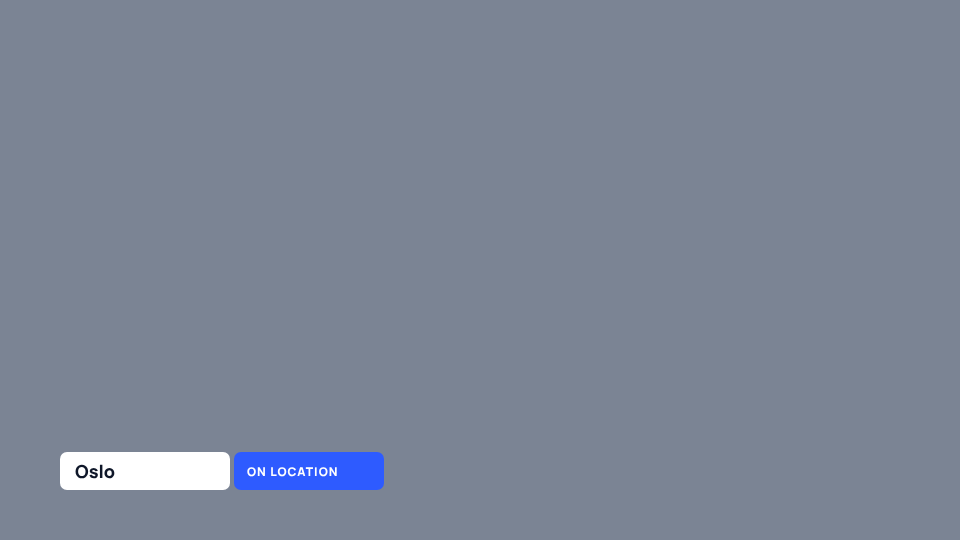
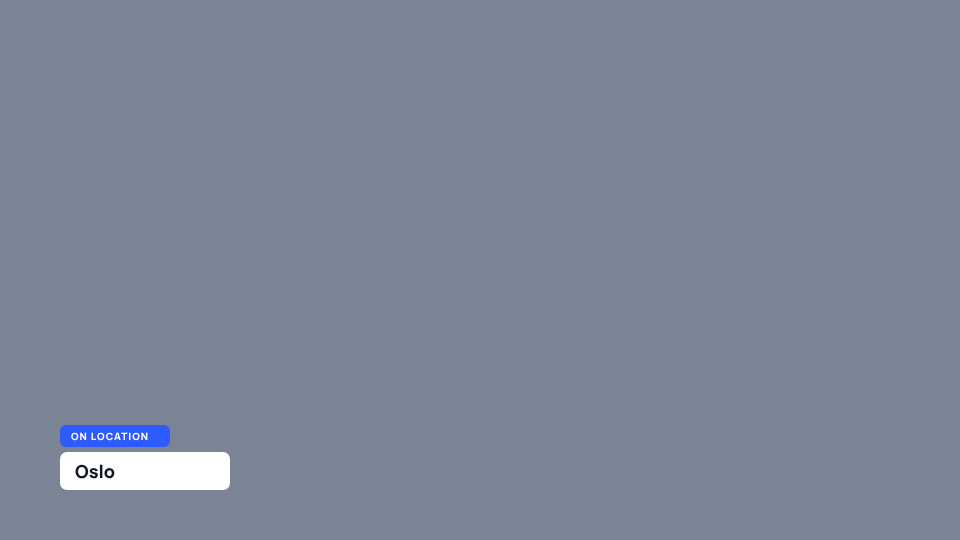
TL4: coverage rows for the new templates, the export proof, sweep fixes
The Location chip's status tag sits above its plate so the plate can grow; the
retyped value is read line by line; Reset is checked against the drawn track.

Changed region(s): [[0.2188, 0.8296, 0.4062, 0.9185], [0.0625, 0.7704, 0.1875, 0.8296]]

diff --git a/e2e/svg-templates.spec.ts b/e2e/svg-templates.spec.ts
@@ -23,6 +23,7 @@ import { fileURLToPath } from 'node:url';
 import { dropSvg, intoProduction } from './_svg-import';
 import { settleDurableWrites } from './_durable';
 import { qrReader } from './_qr';
+import { installGraphicBody } from './_graphicBody';
 
 interface Template { slug: string; name: string; style: string; recipe: string | null; preview: string; contract?: string }
 const templates = (JSON.parse(readFileSync(new URL('../docs/tutorials/template-library/library.json', import.meta.url), 'utf8')) as Template[])
@@ -226,7 +227,12 @@ async function runTemplate(page: Page, browser: Browser, t: Template): Promise<v
       const field = await fieldFor(air, first);
       await page.getByTestId(`cue-field-${field}`).fill('Technical difficulties');
       await page.getByTestId('verb-update').click();
-      await expect(air.locator(`#${field}`)).toHaveText('Technical difficulties');
+      // Read as the lines on air: a value that wraps into the room drawn for it is one tspan a line.
+      const shown = () => air.locator(`#${field}`).evaluate((el) => {
+        const lines = [...el.querySelectorAll('tspan')].map((line) => (line.textContent ?? '').trim()).filter(Boolean);
+        return lines.length ? lines.join(' ') : (el.textContent ?? '').trim();
+      });
+      await expect.poll(shown).toBe('Technical difficulties');
       await checkAir(page, air, `${t.slug}-2-retyped`);
       // PICTURE SLOTS (D8 and the picture rows): each `f:` picture is an operator field bound to
       // its <image>; a picture sent to it replaces the drawn placeholder on air, and an empty
@@ -297,6 +303,9 @@ async function runTemplate(page: Page, browser: Browser, t: Template): Promise<v
       await expect(role(air, 'option/1')).toHaveText('Coast');
       await expect(role(air, 'badge')).toHaveClass(/imported-design-on/);
       await expect(role(air, 'percent/1')).not.toHaveClass(/imported-design-on/);
+      // The counts move the bars the designer drew: three votes to one.
+      const barWidth = (n: number) => role(air, `bar/${n}`).evaluate((el) => el.getBoundingClientRect().width);
+      await expect.poll(async () => (await barWidth(1)) / Math.max(1, await barWidth(2)), { message: 'Coast leads Forest three to one' }).toBeCloseTo(3, 0);
       await checkAir(page, air, `${t.slug}-2-voting`);
       await page.getByTestId('cue-action-close').click();
       await expect(role(air, 'badge')).not.toHaveClass(/imported-design-on/);
@@ -368,7 +377,8 @@ async function runTemplate(page: Page, browser: Browser, t: Template): Promise<v
       // Reset puts the length back and holds it there, with the bar full again.
       await page.getByTestId('cue-action-reset').click();
       await expect(air.locator('.imported-design-clock')).toHaveText('1:00');
-      await expect.poll(width).toBeCloseTo(before, 0);
+      const full = await air.locator('[id="Track"]').evaluate((el) => el.getBoundingClientRect().width);
+      await expect.poll(width, { message: 'the bar is full again' }).toBeCloseTo(full, 0);
       break;
     }
     case 'clock': {
@@ -581,4 +591,146 @@ test('Countdown: the last ten seconds pulse, zero flashes once, and Pause, Reset
   expect(await motion('warning')).toMatchObject({ move: null, opacity: 1 });
   await expect(role(air, 'expired')).toHaveClass(/imported-design-on/, { timeout: 15_000 });
   expect(await motion('expired')).toMatchObject({ move: null, opacity: 1, scale: 1 });
+});
+
+// THE MOTION IN EVERY EXPORT TARGET (AC-7, spec "Exports"): the pulse and the flash are the
+// graphic's own runtime, so each package is loaded the way its host loads it and driven the way
+// its host drives it, and the same looks move. OGraf is also sought out of order in non-real
+// time, where a seek must land on the same frame whatever came before it (AC-6).
+test('Countdown: the pulse and the flash play in every export target, and OGraf seeks land on the same frame in any order', async ({ page, context }) => {
+  test.setTimeout(120_000);
+  const t = templates.find((entry) => entry.slug === 'game-timer')!;
+  await importTemplate(page, t);
+  // Three seconds: inside the warning from the first tick, at zero three seconds later.
+  const short = { f1: '0.05' };
+  const packages = await page.evaluate(async ({ production, short }) => {
+    const shows = await __noacgImport('/src/model/shows.ts');
+    const { EXPORT_TARGETS } = await __noacgImport('/src/export/registry.ts');
+    const template = shows.loadShows().find((s: { name: string }) => s.name === production)!.graphics[0].template;
+    const out: Record<string, Record<string, string>> = {};
+    for (const target of EXPORT_TARGETS) {
+      const zip = await target.build(template, { sampleData: short, graphicUsage: 'both' });
+      const files: Record<string, string> = {};
+      for (const name of Object.keys(zip.files)) if (!zip.files[name].dir && /\.(html|js|mjs|css|json)$/.test(name)) files[name] = await zip.file(name)!.async('string');
+      out[target.id] = files;
+    }
+    return out;
+  }, { production: `${t.name} template`, short });
+  expect(Object.keys(packages).sort()).toEqual(['casparcg', 'h2r', 'html-overlay', 'liveos', 'ograf', 'spx']);
+
+  /** One package's graphic page with its own css and js inlined, as its folder would serve it. */
+  const inlined = (files: Record<string, string>) => {
+    const html = Object.keys(files).find((n) => n.endsWith('.html') && !/control|panel|index|controller/i.test(n.split('/').pop()!))!;
+    const dir = html.slice(0, html.lastIndexOf('/') + 1);
+    const at = (ref: string) => files[dir + ref.replace(/^\.\//, '')];
+    return files[html]
+      .replace(/<link[^>]*href=["']([^"']+\.css)["'][^>]*>/gi, (tag, ref) => (at(ref) !== undefined ? `<style>${at(ref)}</style>` : tag))
+      .replace(/<script([^>]*)src=["']([^"']+\.js)["']([^>]*)><\/script>/gi, (tag, a, ref) => (at(ref) !== undefined ? `<script${a}>${at(ref).replace(/<\/script>/gi, '<\\/script>')}</script>` : tag));
+  };
+
+  // The page-based targets: CasparCG and H2R update then play, SPX likewise, the overlay plays itself.
+  for (const id of ['spx', 'casparcg', 'h2r', 'html-overlay']) {
+    const view = await context.newPage();
+    await view.setContent(inlined(packages[id]), { waitUntil: 'load' });
+    if (id !== 'html-overlay') {
+      await view.evaluate((data) => {
+        const w = window as unknown as { update(raw: string): void; play(): void };
+        w.update(JSON.stringify(data));
+        w.play();
+      }, short);
+    }
+    const look = (name: string) => view.evaluate((n) => {
+      const el = document.querySelector(`[data-noacg-role~="${n}"]`) as (Element & { noacgMove?: { name: string; tween: { isActive(): boolean } } | null }) | null;
+      return el ? { lit: el.classList.contains('imported-design-on'), move: el.noacgMove ? el.noacgMove.name : null } : null;
+    }, name);
+    await expect.poll(() => look('warning'), { message: `${id}: the last stretch pulses`, timeout: 5_000 }).toEqual({ lit: true, move: 'pulse' });
+    await expect.poll(() => look('expired'), { message: `${id}: zero flashes`, timeout: 8_000 }).toEqual({ lit: true, move: 'flash' });
+    expect(await look('warning'), `${id}: the pulse stops at zero`).toEqual({ lit: false, move: null });
+    await view.close();
+  }
+
+  // OGraf and LiveOS (the same Graphic): a renderer's real-time lifecycle.
+  for (const id of ['ograf', 'liveos']) {
+    const files = packages[id];
+    const root = Object.keys(files).find((n) => n.endsWith('graphic.mjs'))!.replace(/graphic\.mjs$/, '');
+    const origin = `http://${id}-motion.local/`;
+    await page.route(`${origin}**`, (route) => {
+      const body = files[root + new URL(route.request().url()).pathname.replace(/^\//, '')];
+      return body == null ? route.fulfill({ status: 404, body: 'not found' }) : route.fulfill({ status: 200, contentType: 'application/javascript', headers: { 'access-control-allow-origin': '*' }, body });
+    });
+    await installGraphicBody(page);
+    const seen = await page.evaluate(async ({ origin, id, short }) => {
+      const mod = await import(`${origin}graphic.mjs`);
+      customElements.define(`${id}-motion-under-test`, mod.default);
+      const el = document.createElement(`${id}-motion-under-test`) as HTMLElement & { load(p: unknown): Promise<unknown>; playAction(p: unknown): Promise<unknown>; dispose(): Promise<unknown> };
+      document.body.appendChild(el);
+      await el.load({ data: short, renderType: 'realtime', renderCharacteristics: {} });
+      await el.playAction({});
+      const look = (n: string) => {
+        const node = graphicBody(el).querySelector(`[data-noacg-role~="${n}"]`) as (Element & { noacgMove?: { name: string } | null }) | null;
+        return node ? { lit: node.classList.contains('imported-design-on'), move: node.noacgMove ? node.noacgMove.name : null } : null;
+      };
+      const until = async (n: string, move: string, ms: number) => {
+        for (let waited = 0; waited < ms; waited += 100) {
+          if (look(n)?.move === move) return look(n);
+          await new Promise((r) => setTimeout(r, 100));
+        }
+        return look(n);
+      };
+      const warning = await until('warning', 'pulse', 5_000);
+      const expired = await until('expired', 'flash', 8_000);
+      const after = look('warning');
+      await el.dispose();
+      return { warning, expired, after };
+    }, { origin, id, short });
+    expect(seen, `${id}: real time`).toEqual({ warning: { lit: true, move: 'pulse' }, expired: { lit: true, move: 'flash' }, after: { lit: false, move: null } });
+  }
+
+  // OGraf non-real time: a schedule, then seeks in order and shuffled; each frame is the same.
+  const files = packages.ograf;
+  const root = Object.keys(files).find((n) => n.endsWith('graphic.mjs'))!.replace(/graphic\.mjs$/, '');
+  const manifest = JSON.parse(files[Object.keys(files).find((n) => n.endsWith('.ograf.json'))!]);
+  expect(manifest.supportsNonRealTime, 'the countdown is offered for non-real time').toBe(true);
+  await page.route('http://ograf-seek.local/**', (route) => {
+    const body = files[root + new URL(route.request().url()).pathname.replace(/^\//, '')];
+    return body == null ? route.fulfill({ status: 404, body: 'not found' }) : route.fulfill({ status: 200, contentType: 'application/javascript', headers: { 'access-control-allow-origin': '*' }, body });
+  });
+  const frames = await page.evaluate(async (short) => {
+    const mod = await import('http://ograf-seek.local/graphic.mjs');
+    customElements.define('ograf-seek-under-test', mod.default);
+    const el = document.createElement('ograf-seek-under-test') as HTMLElement & { load(p: unknown): Promise<unknown>; setActionsSchedule(p: unknown): Promise<unknown>; goToTime(p: unknown): Promise<unknown>; dispose(): Promise<unknown> };
+    document.body.appendChild(el);
+    await el.load({ data: short, renderType: 'non-realtime', renderCharacteristics: {} });
+    await el.setActionsSchedule({ schedule: [{ timestamp: 0, action: { type: 'playAction', params: {} } }] });
+    const snapshot = async (timestamp: number) => {
+      await el.goToTime({ timestamp });
+      const doc = graphicBody(el).querySelector('iframe')!.contentDocument!;
+      const read = (n: string) => {
+        const node = doc.querySelector(`[data-noacg-role~="${n}"]`)!;
+        const cs = getComputedStyle(node);
+        return { lit: node.classList.contains('imported-design-on'), opacity: Number(cs.opacity).toFixed(3), transform: cs.transform };
+      };
+      return { timestamp, warning: read('warning'), expired: read('expired') };
+    };
+    const order = [700, 1450, 3150, 3300, 4500];
+    const sequential = [];
+    for (const at of order) sequential.push(await snapshot(at));
+    const shuffled = [];
+    for (const at of [3300, 700, 4500, 1450, 3150, 700]) shuffled.push(await snapshot(at));
+    await el.dispose();
+    return { sequential, shuffled };
+  }, short);
+  // Every seek lands on the frame the in-order walk saw.
+  for (const frame of frames.shuffled) expect(frame, `seek to ${frame.timestamp}`).toEqual(frames.sequential.find((f) => f.timestamp === frame.timestamp));
+  const at = (ms: number) => frames.sequential.find((f) => f.timestamp === ms)!;
+  // The pulse is under way at 0.7 s and at another point of its beat at 1.45 s.
+  expect(at(700).warning.lit).toBe(true);
+  expect(Number(at(700).warning.opacity)).toBeLessThan(1);
+  expect(at(700).warning.opacity).not.toBe(at(1450).warning.opacity);
+  // Zero at 3 s: the flash is still growing in at 3.15 s, and at rest by 4.5 s.
+  expect(at(3150).expired.lit).toBe(true);
+  expect(at(3150).warning.lit).toBe(false);
+  expect(at(3150).expired.transform).not.toBe(at(4500).expired.transform);
+  expect(at(4500).expired).toMatchObject({ lit: true, opacity: '1.000' });
+  expect(at(4500).expired.transform).toMatch(/^(none|matrix\(1, 0, 0, 1, 0, 0\))$/);
 });
